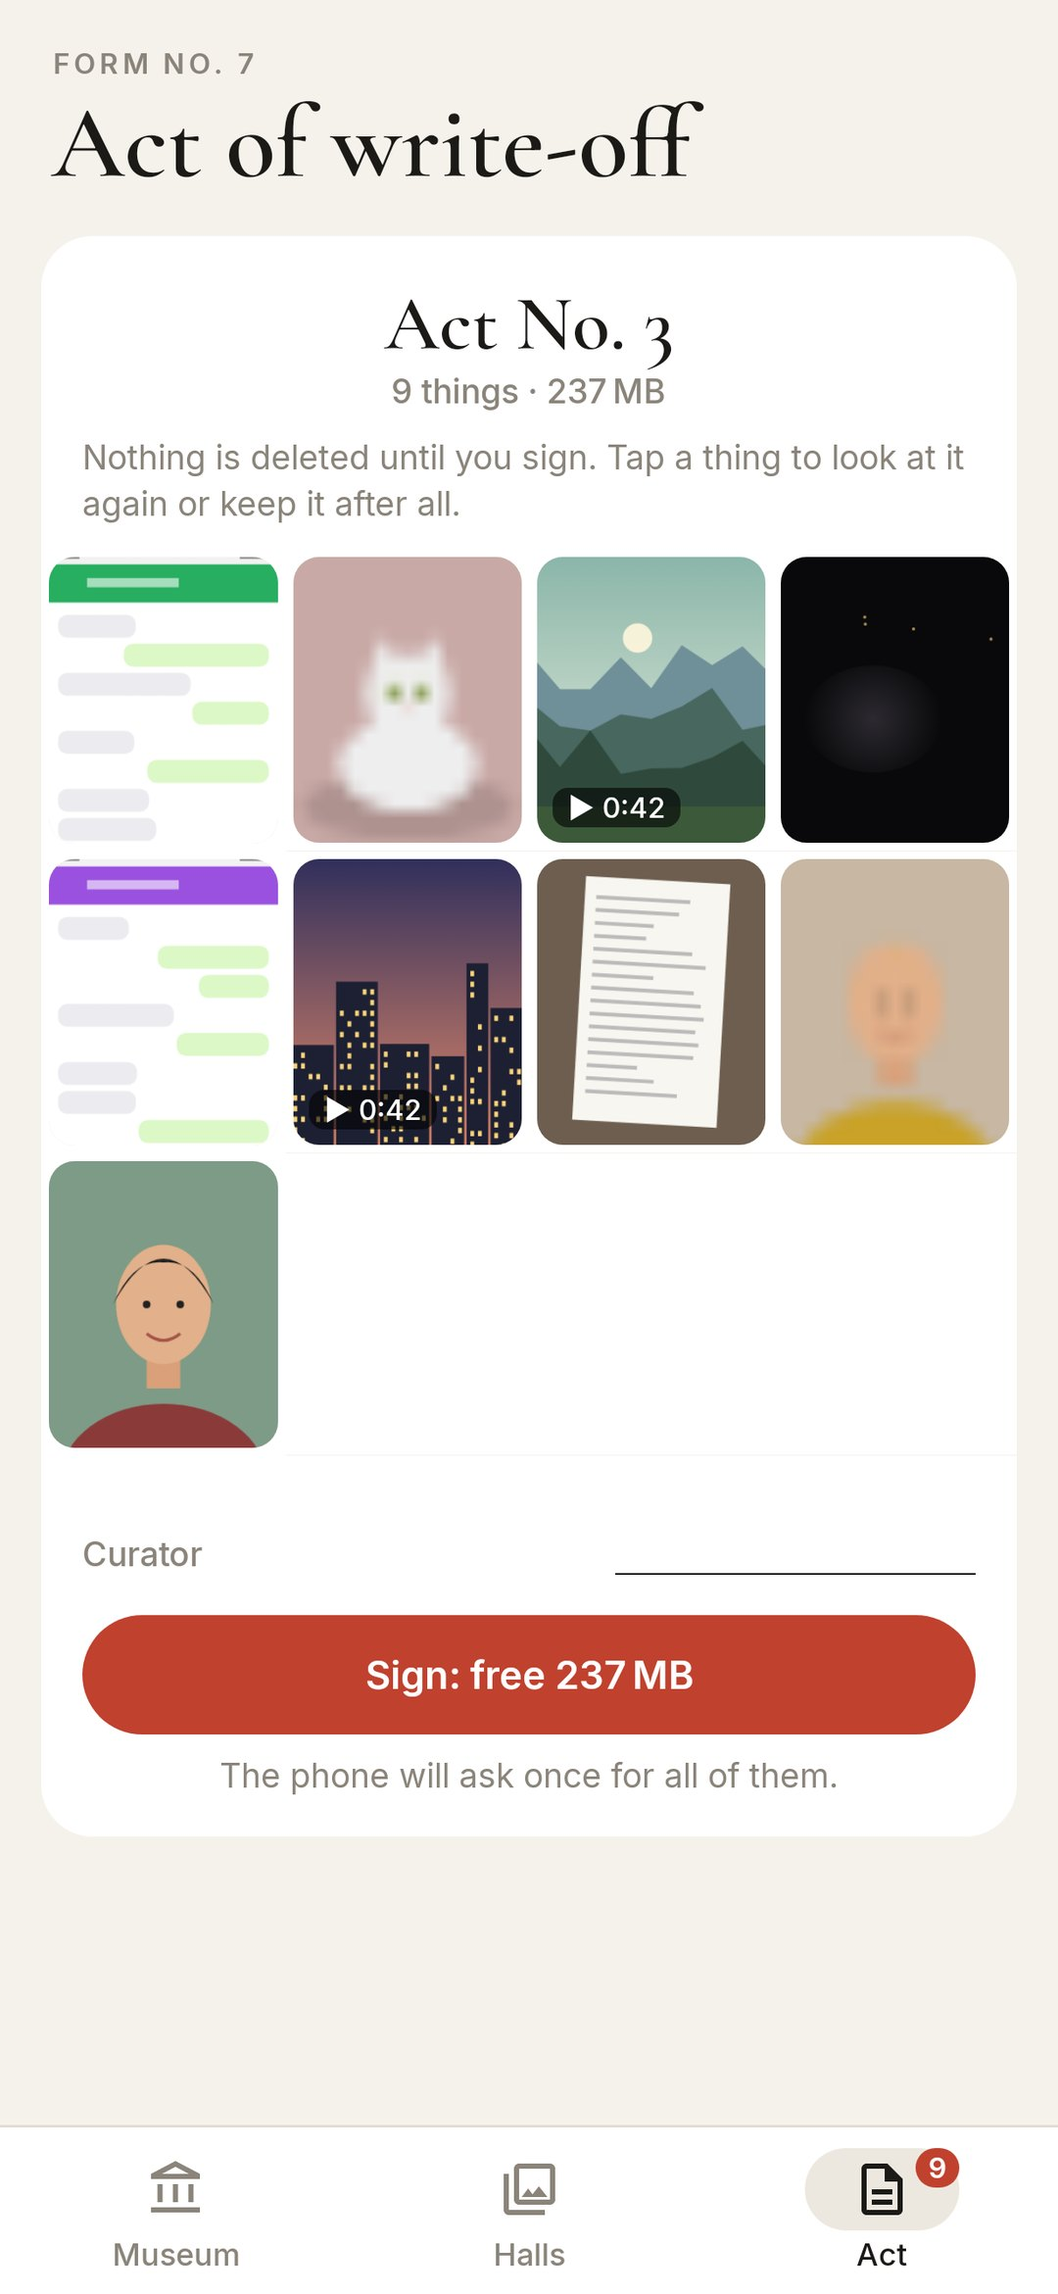
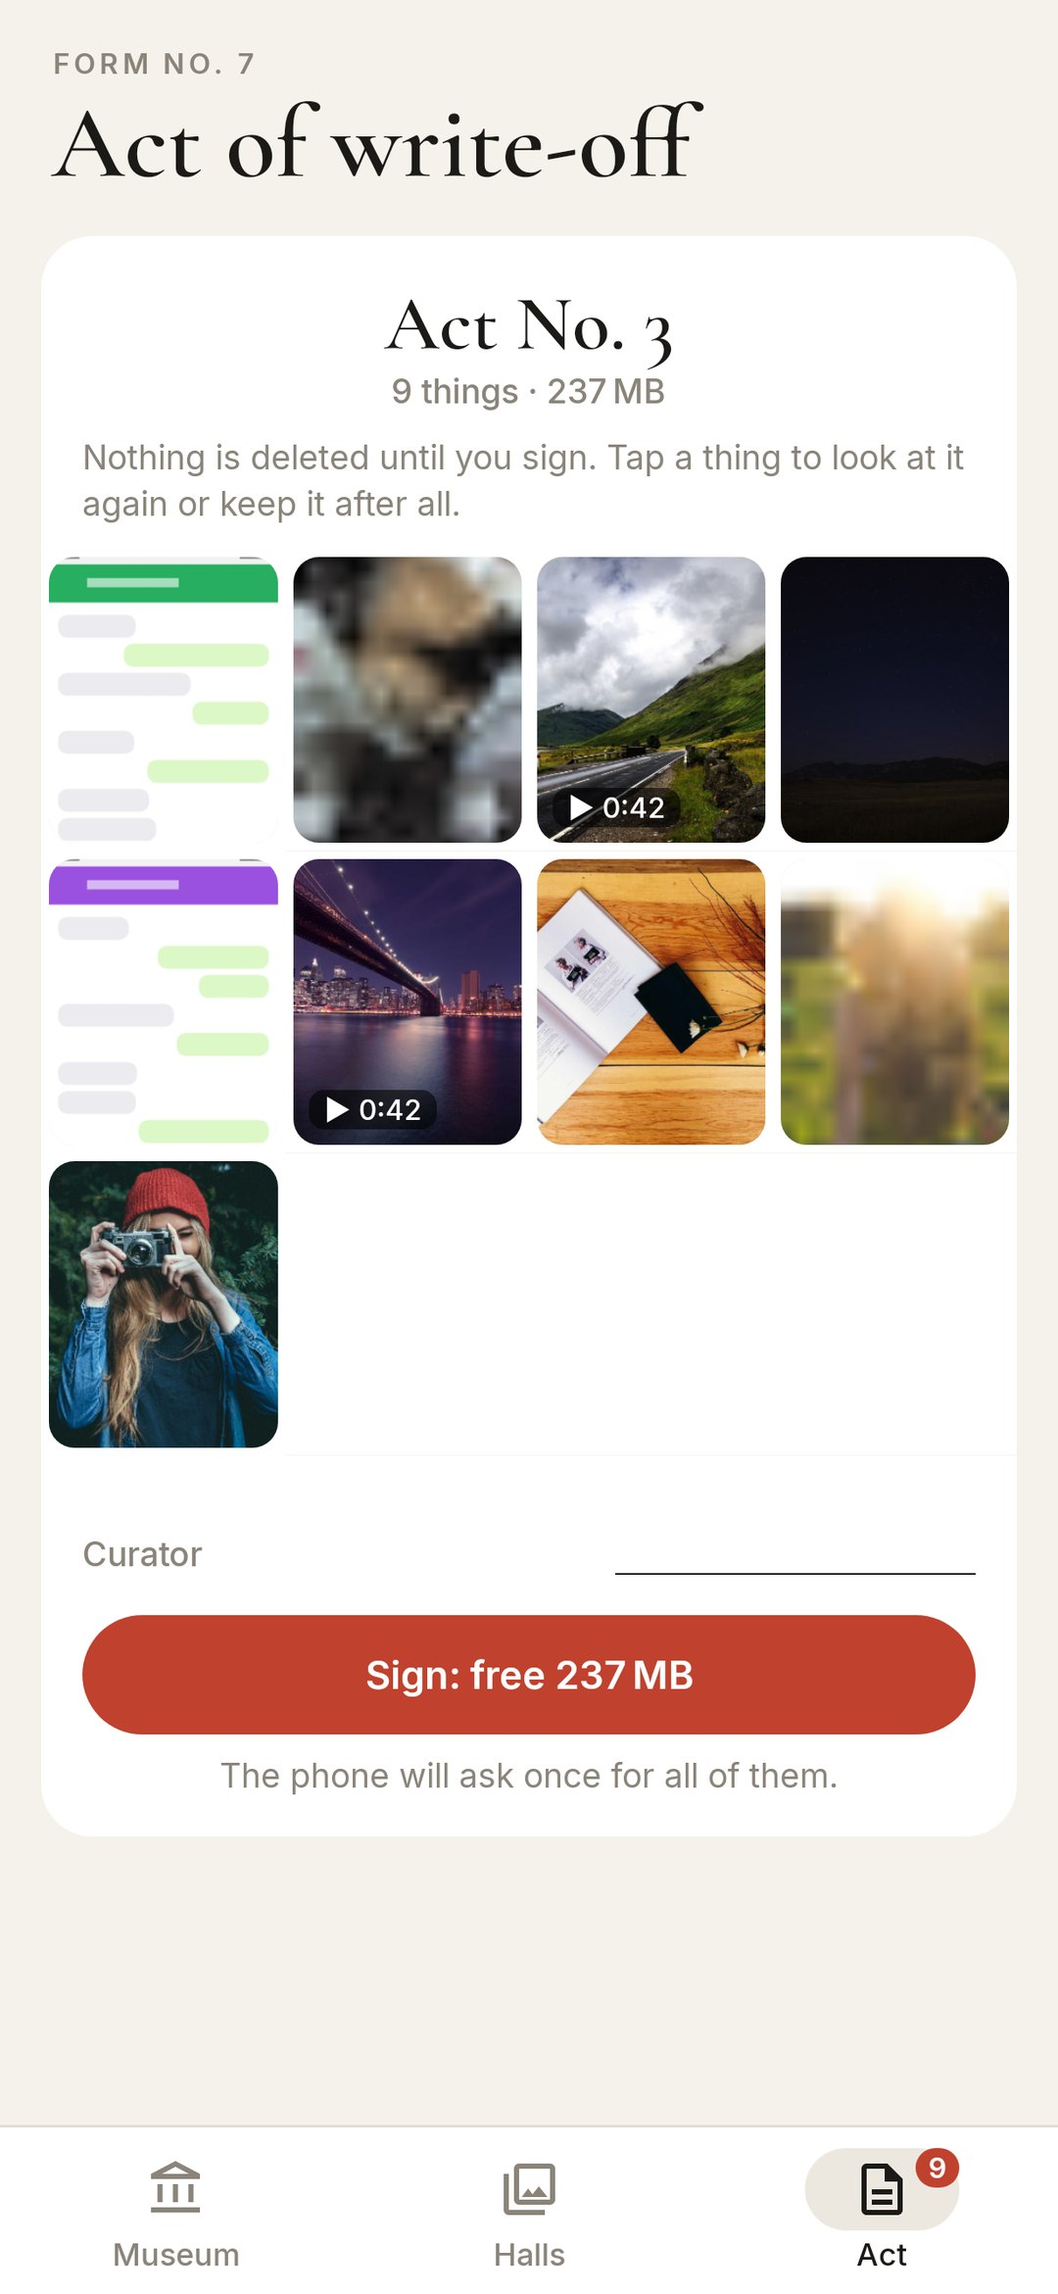
Demo gallery: real stock photos instead of drawn scenes
The demo items and the screen renders now show Unsplash photos (via
Lorem Picsum), bundled only into -Pdemo and -Prender builds. Blurred and
dark shots are real photos spoiled on the spot; a screenshot is still
drawn. The cat hall becomes "Dogs": the stock set has dogs, not cats.

Changed region(s): [[0.275, 0.2183, 0.9778, 0.4989], [0.0306, 0.4989, 0.275, 0.6548], [0.8556, 0.2806, 0.9472, 0.343]]

diff --git a/app/src/main/java/app/curator/art/Fake.kt b/app/src/main/java/app/curator/art/Fake.kt
@@ -1,19 +1,19 @@
 package app.curator.art
 
+import android.content.res.AssetManager
 import android.graphics.Bitmap
+import android.graphics.BitmapFactory
 import android.graphics.Canvas
-import android.graphics.LinearGradient
 import android.graphics.Paint
-import android.graphics.Path
-import android.graphics.RadialGradient
+import android.graphics.Rect
 import android.graphics.RectF
-import android.graphics.Shader
 import app.curator.data.Item
 import kotlin.random.Random
 
 /**
- * The demo gallery: little made-up photographs drawn from a seed (landscapes, the sea, a city at dusk, a cat,
- * a plate, a portrait, a screenshot, a receipt, a dark pocket shot, a blurred one). No real photo is ever read for it.
+ * The demo gallery: stock photos bundled only into demo and render builds (app/src/demo/assets/demo/<kind>/), picked
+ * by the item's seed. Blurred and dark shots are real photos spoiled on the spot; a screenshot is drawn. No photo
+ * from the phone is ever read for it.
  */
 object Fake {
     private const val W = 300f
@@ -21,8 +21,9 @@ object Fake {
     private val cache = object : android.util.LruCache<String, Bitmap>(24 shl 20) {
         override fun sizeOf(key: String, value: Bitmap) = value.byteCount
     }
+    private val lists = HashMap<String, List<String>>()
 
-    fun draw(it: Item, px: Int): Bitmap {
+    fun draw(it: Item, px: Int, assets: AssetManager): Bitmap {
         val key = "${it.seed}:${it.art}:${it.w}:$px"
         cache.get(key)?.let { b -> return b }
         val wide = it.w > it.h
@@ -34,12 +35,16 @@ object Fake {
         val sh = if (blur) (bh / 14).coerceAtLeast(8) else bh
         val b = Bitmap.createBitmap(sw, sh, Bitmap.Config.ARGB_8888)
         val c = Canvas(b)
-        c.scale(sw / W, sh / H)
-        val r = Random(it.seed)
-        val kind = if (blur) listOf("land", "face", "city", "cat")[r.nextInt(4)] else it.art
+        val r = Random(if (blur) it.seed else baseSeed(it.seed))
+        val kind = if (blur) listOf("land", "face", "city", "dog")[r.nextInt(4)] else it.art
         // The jitter makes a series: the same scene, a hand's width to the side.
-        val j = if (it.seed >= 1_000_000) (it.seed % 10).toFloat() else 0f
-        scene(c, kind, Random(if (blur) it.seed else baseSeed(it.seed)), j * 7f)
+        val j = if (it.seed >= 1_000_000) it.seed % 10 else 0
+        if (kind == "shot") {
+            c.scale(sw / W, sh / H)
+            screenshot(c, r)
+        } else if (!photo(c, assets, kind, r, j)) {
+            c.drawColor(0xFF8A8A8A.toInt())
+        }
         val out = if (blur) Bitmap.createScaledBitmap(b, bw, bh, true) else b
         cache.put(key, out)
         return out
@@ -48,133 +53,49 @@ object Fake {
     /** Series share a base seed (the seed with its last decimal digit dropped), so their scenes match. */
     private fun baseSeed(seed: Int) = if (seed >= 1_000_000) seed / 10 else seed
 
-    private fun p(color: Long, alpha: Int = 255) = Paint(Paint.ANTI_ALIAS_FLAG).apply { this.color = color.toInt(); this.alpha = alpha }
-
-    private fun <T> Random.pick(xs: List<T>) = xs[nextInt(xs.size)]
-
-    private fun sky(c: Canvas, top: Long, bottom: Long, h: Float = H) {
-        val paint = Paint().apply { shader = LinearGradient(0f, 0f, 0f, h, top.toInt(), bottom.toInt(), Shader.TileMode.CLAMP) }
-        c.drawRect(0f, 0f, W, H, paint)
+    /** A stock photo of [kind] cropped to fill [c]; a series frame [j] is zoomed in a little and moved along. */
+    private fun photo(c: Canvas, assets: AssetManager, kind: String, r: Random, j: Int): Boolean {
+        val files = synchronized(lists) {
+            lists.getOrPut(kind) { runCatching { assets.list("demo/$kind")?.sorted() }.getOrNull().orEmpty() }
+        }
+        if (files.isEmpty()) return false
+        val path = "demo/$kind/${files[r.nextInt(files.size)]}"
+        val src = runCatching {
+            val o = BitmapFactory.Options().apply { inJustDecodeBounds = true }
+            assets.open(path).use { BitmapFactory.decodeStream(it, null, o) }
+            var k = 1
+            while (o.outWidth / (k * 2) >= c.width) k *= 2
+            assets.open(path).use { BitmapFactory.decodeStream(it, null, BitmapFactory.Options().apply { inSampleSize = k }) }
+        }.getOrNull() ?: return false
+        val aim = c.width.toFloat() / c.height
+        var cw = src.width.toFloat()
+        var ch = cw / aim
+        if (ch > src.height) { ch = src.height.toFloat(); cw = ch * aim }
+        if (j > 0) { cw *= .9f; ch *= .9f }
+        val x = ((src.width - cw) / 2 + (j - 1.5f) * cw * .025f).coerceIn(0f, src.width - cw)
+        val y = (src.height - ch) / 2
+        c.drawBitmap(src, Rect(x.toInt(), y.toInt(), (x + cw).toInt(), (y + ch).toInt()),
+            RectF(0f, 0f, c.width.toFloat(), c.height.toFloat()), Paint(Paint.FILTER_BITMAP_FLAG))
+        return true
     }
 
-    private fun scene(c: Canvas, kind: String, r: Random, dx: Float) {
-        when (kind) {
-            "land" -> {
-                val sk = r.pick(listOf(0xFFF4A261 to 0xFFFDE2B8, 0xFF6FA8DC to 0xFFD9ECF7, 0xFFB48EAD to 0xFFF6D5C0, 0xFF88B4A8 to 0xFFEEF3E2))
-                sky(c, sk.first, sk.second)
-                c.drawCircle(70 + r.nextFloat() * 160 + dx, 90 + r.nextFloat() * 60, 18 + r.nextFloat() * 14, p(0xFFFFF6DD, 230))
-                val cols = listOf(0xFF6F8F99, 0xFF47675F, 0xFF2F4A3C)
-                for (k in 0 until 3) {
-                    val base = 190f + k * 55
-                    val path = Path().apply {
-                        moveTo(-10f, H)
-                        var x = -10f
-                        while (x <= 320f) { lineTo(x + dx, base - r.nextFloat() * 70); x += 40f }
-                        lineTo(320f, H); close()
-                    }
-                    c.drawPath(path, p(cols[k]))
-                }
-                c.drawRect(0f, 340f, W, H, p(0xFF3C5A3A))
-            }
-            "sea" -> {
-                sky(c, r.pick(listOf(0xFF9EC5E8, 0xFFF7B267, 0xFFC8B6E2)), 0xFFFBEEDD, 230f)
-                val sx = 90 + r.nextFloat() * 120 + dx
-                c.drawCircle(sx, 170f, 26f, p(0xFFFFF4D6))
-                c.drawRect(0f, 230f, W, H, Paint().apply { shader = LinearGradient(0f, 230f, 0f, H, 0xFF3D7EA6.toInt(), 0xFF173B57.toInt(), Shader.TileMode.CLAMP) })
-                for (k in 0 until 7) c.drawRect(sx - 30 + r.nextFloat() * 40, 240f + k * 16, sx - 30 + r.nextFloat() * 40 + 20 + r.nextFloat() * 30, 243f + k * 16, p(0xFFFFF4D6, 150))
-                val bx = 60 + r.nextFloat() * 160 + dx
-                c.drawPath(Path().apply { moveTo(bx, 228f); lineTo(bx + 20, 180f); lineTo(bx + 22, 228f); close() }, p(0xFFFFFFFF))
-                c.drawRect(bx - 8, 227f, bx + 30, 233f, p(0xFF222222))
-            }
-            "city" -> {
-                sky(c, 0xFF2B2D5C, r.pick(listOf(0xFFE48A6A, 0xFFD9737C, 0xFFF0A35E)))
-                var x = -5f + dx
-                val win = p(0xFFF7D37A)
-                while (x < W) {
-                    val w = 28 + r.nextFloat() * 42
-                    val h = 120 + r.nextFloat() * 190
-                    c.drawRect(x, H - h, x + w, H, p(0xFF1D1F33))
-                    var wy = H + 10 - h
-                    while (wy < 390) {
-                        var wx = x + 5
-                        while (wx < x + w - 6) { if (r.nextFloat() < .35f) c.drawRect(wx, wy, wx + 5, wy + 7, win); wx += 10 }
-                        wy += 14
-                    }
-                    x += w + 3
-                }
-            }
-            "cat" -> {
-                c.drawColor(r.pick(listOf(0xFFD9C3A5, 0xFFA7B8C9, 0xFFC9A9A6)).toInt())
-                val col = p(r.pick(listOf(0xFFE09A4F, 0xFF666666, 0xFFEEEEEE, 0xFF2B2B2B)))
-                val cx = 150 + dx
-                c.drawOval(RectF(10f, 296f, 290f, 384f), p(0xFF000000, 34))
-                c.drawOval(RectF(cx - 92, 223f, cx + 92, 347f), col)
-                c.drawCircle(cx, 195f, 56f, col)
-                c.drawPath(Path().apply { moveTo(cx - 50, 170f); lineTo(cx - 38, 118f); lineTo(cx - 12, 150f); close() }, col)
-                c.drawPath(Path().apply { moveTo(cx + 50, 170f); lineTo(cx + 38, 118f); lineTo(cx + 12, 150f); close() }, col)
-                for (s in listOf(-20f, 20f)) {
-                    c.drawOval(RectF(cx + s - 9, 179f, cx + s + 9, 201f), p(0xFFA7C94A))
-                    c.drawOval(RectF(cx + s - 3, 181f, cx + s + 3, 199f), p(0xFF111111))
-                }
-                c.drawPath(Path().apply { moveTo(cx - 6, 212f); lineTo(cx + 6, 212f); lineTo(cx, 219f); close() }, p(0xFFDD7777))
-            }
-            "food" -> {
-                c.drawColor(0xFF8B5A3C.toInt())
-                for (k in 0 until 6) c.drawRect(0f, k * 70f, W, k * 70f + 2, p(0xFF6D432B))
-                c.drawCircle(150 + dx, 210f, 112f, p(0xFFE9E4D8))
-                c.drawCircle(150 + dx, 210f, 84f, p(0xFFFBFAF6))
-                for (k in 0 until 6) c.drawCircle(120 + r.nextFloat() * 60 + dx, 180 + r.nextFloat() * 60, 14 + r.nextFloat() * 20,
-                    p(r.pick(listOf(0xFFD9534F, 0xFFF0AD4E, 0xFF5CB85C, 0xFFE8C07D, 0xFFA0522D))))
-                c.drawCircle(262f, 56f, 34f, p(0xFFF4F1EA))
-                c.drawCircle(262f, 56f, 24f, p(0xFF5A3825))
-            }
-            "face" -> {
-                c.drawColor(r.pick(listOf(0xFF9FB7C9, 0xFFC7B7A3, 0xFF7D9B86, 0xFFE0C9A6)).toInt())
-                val cx = 150 + dx
-                c.drawOval(RectF(cx - 135, 330f, cx + 135, 530f), p(r.pick(listOf(0xFF36454F, 0xFF8B3A3A, 0xFF2E5E4E, 0xFFC9A227))))
-                c.drawRect(cx - 22, 250f, cx + 22, 310f, p(0xFFD9A07A))
-                c.drawOval(RectF(cx - 62, 122f, cx + 62, 278f), p(r.pick(listOf(0xFFF1C7A5, 0xFFE2B08A, 0xFFC48B62))))
-                c.drawPath(Path().apply {
-                    moveTo(cx - 66, 200f); quadTo(cx, 80f, cx + 66, 200f); quadTo(cx + 40, 140f, cx, 145f); quadTo(cx - 40, 140f, cx - 66, 200f); close()
-                }, p(r.pick(listOf(0xFF3B2A20, 0xFF8A5A2B, 0xFFD8B26E, 0xFF222222))))
-                c.drawCircle(cx - 22, 200f, 5f, p(0xFF222222))
-                c.drawCircle(cx + 22, 200f, 5f, p(0xFF222222))
-                c.drawPath(Path().apply { moveTo(cx - 22, 238f); quadTo(cx, 256f, cx + 22, 238f) },
-                    p(0xFFA4554A).apply { style = Paint.Style.STROKE; strokeWidth = 4f })
-            }
-            "shot" -> {
-                c.drawColor(0xFFFFFFFF.toInt())
-                c.drawRect(0f, 0f, W, 22f, p(0xFFF2F2F2))
-                c.drawRect(10f, 7f, 40f, 15f, p(0xFF999999))
-                c.drawRect(250f, 7f, 290f, 15f, p(0xFF999999))
-                c.drawRect(0f, 22f, W, 72f, p(r.pick(listOf(0xFF2F80ED, 0xFF27AE60, 0xFF9B51E0))))
-                c.drawRect(50f, 40f, 170f, 52f, p(0xFFFFFFFF, 150))
-                var y = 88f
-                repeat(8) {
-                    val w = 90 + r.nextFloat() * 130
-                    val me = r.nextBoolean()
-                    val x = if (me) W - w - 12 else 12f
-                    c.drawRoundRect(RectF(x, y, x + w, y + 30), 12f, 12f, p(if (me) 0xFFDCF8C6 else 0xFFECECF0))
-                    y += 38
-                }
-            }
-            "doc" -> {
-                c.drawColor(0xFF6D5E50.toInt())
-                c.save()
-                c.rotate(-6 + r.nextFloat() * 12, 150f, 200f)
-                c.drawRect(55f, 40f, 245f, 360f, p(0xFFF8F6F0))
-                for (k in 0 until 16) c.drawRect(70f, 64f + k * 17, 70 + 60 + r.nextFloat() * 100, 69f + k * 17, p(0xFFBBBBBB))
-                c.restore()
-            }
-            else -> {
-                c.drawColor(0xFF09090B.toInt())
-                val x = 100 + r.nextFloat() * 100
-                val y = 150 + r.nextFloat() * 100
-                c.drawOval(RectF(x - 90, y - 70, x + 90, y + 70), Paint().apply {
-                    shader = RadialGradient(x, y, 90f, 0xFF2C2A30.toInt(), 0xFF09090B.toInt(), Shader.TileMode.CLAMP)
-                })
-                repeat(4) { c.drawCircle(r.nextFloat() * W, r.nextFloat() * H, 2f, p(0xFFF6D27A, 180)) }
-            }
+    private fun p(color: Long) = Paint(Paint.ANTI_ALIAS_FLAG).apply { this.color = color.toInt() }
+
+    /** A chat screenshot: status bar, a coloured app bar and speech bubbles. */
+    private fun screenshot(c: Canvas, r: Random) {
+        c.drawColor(0xFFFFFFFF.toInt())
+        c.drawRect(0f, 0f, W, 22f, p(0xFFF2F2F2))
+        c.drawRect(10f, 7f, 40f, 15f, p(0xFF999999))
+        c.drawRect(250f, 7f, 290f, 15f, p(0xFF999999))
+        c.drawRect(0f, 22f, W, 72f, p(listOf(0xFF2F80ED, 0xFF27AE60, 0xFF9B51E0)[r.nextInt(3)]))
+        c.drawRect(50f, 40f, 170f, 52f, p(0x96FFFFFF))
+        var y = 88f
+        repeat(8) {
+            val w = 90 + r.nextFloat() * 130
+            val me = r.nextBoolean()
+            val x = if (me) W - w - 12 else 12f
+            c.drawRoundRect(RectF(x, y, x + w, y + 30), 12f, 12f, p(if (me) 0xFFDCF8C6 else 0xFFECECF0))
+            y += 38
         }
     }
 }

diff --git a/app/src/main/java/app/curator/data/DemoSeed.kt b/app/src/main/java/app/curator/data/DemoSeed.kt
@@ -11,7 +11,7 @@ import java.time.ZoneId
 import kotlin.random.Random
 
 /**
- * `-Pdemo`: a museum a few months old over a made-up gallery drawn in code. Last month's crate is still sealed and
+ * `-Pdemo`: a museum a few months old over a made-up gallery of stock photos. Last month's crate is still sealed and
  * has a bit of everything in it: rejects for the expert, a series, a video, a duplicate. The act waiting for a
  * signature is just enough to open the Rotunda.
  */
@@ -48,8 +48,8 @@ object DemoSeed {
         val m1 = today.minusMonths(1).withDayOfMonth(1)
         var t = m1.atTime(9, 12).atZone(zone).toInstant().toEpochMilli()
         fun step() { t += (40 + r.nextInt(400)) * 60_000L }
-        val plan = listOf("land", "sea", "shot", "face", "cat", "SERIES", "blur", "food", "VIDEO", "city", "dark", "sea", "DUP", "cat",
-            "shot", "doc", "land", "face", "food", "city", "blur", "sea", "cat", "land", "face", "sea", "food", "land", "city", "cat")
+        val plan = listOf("land", "sea", "shot", "face", "dog", "SERIES", "blur", "food", "VIDEO", "city", "dark", "sea", "DUP", "dog",
+            "shot", "doc", "land", "face", "food", "city", "blur", "sea", "dog", "land", "face", "sea", "food", "land", "city", "dog")
         for (k in plan) {
             when (k) {
                 "SERIES" -> {
@@ -67,14 +67,14 @@ object DemoSeed {
             }
             step()
         }
-        for (k in 0 until 34) { out += item(t, listOf("land", "sea", "face", "cat", "food", "city")[r.nextInt(6)], chat = r.nextInt(6) == 0); step() }
+        for (k in 0 until 34) { out += item(t, listOf("land", "sea", "face", "dog", "food", "city")[r.nextInt(6)], chat = r.nextInt(6) == 0); step() }
 
         // Older months, partly described.
-        val halls = listOf(if (ru) "Семья" else "Family", if (ru) "Путешествия" else "Travels", if (ru) "Кот Бублик" else "Biscuit the cat",
+        val halls = listOf(if (ru) "Семья" else "Family", if (ru) "Путешествия" else "Travels", if (ru) "Собаки" else "Dogs",
             if (ru) "Застолья" else "Feasts", if (ru) "Город" else "The city")
         val founded = now - 92L * 86_400_000
         val hallIds = halls.mapIndexed { i, n -> c.museum.addHall(Hall(name = n, created = founded + i * 3_600_000L)) }
-        val hallOf = mapOf("face" to 0, "sea" to 1, "land" to 1, "cat" to 2, "food" to 3, "city" to 4)
+        val hallOf = mapOf("face" to 0, "sea" to 1, "land" to 1, "dog" to 2, "food" to 3, "city" to 4)
         val older = listOf(0 to (40 to .35f), 2 to (52 to 1f), 3 to (120 to .05f), 7 to (64 to 0f), 19 to (88 to .6f), 31 to (40 to 1f), 55 to (70 to .3f))
         val decidedSoFar = ArrayList<Item>()
         for ((ago, spec) in older) {
@@ -90,7 +90,7 @@ object DemoSeed {
                     roll < 8 -> item(at, "shot", size = 500_000L)
                     roll < 12 -> item(at, "blur", sharp = 3f)
                     roll < 15 -> item(at, "land", size = (30 + r.nextLong(90)) * MB, video = true)
-                    else -> item(at, listOf("land", "sea", "face", "cat", "food", "city", "doc")[r.nextInt(7)], chat = r.nextInt(7) == 0)
+                    else -> item(at, listOf("land", "sea", "face", "dog", "food", "city", "doc")[r.nextInt(7)], chat = r.nextInt(7) == 0)
                 }
             }
             val k = (n * done).toInt()
@@ -109,7 +109,7 @@ object DemoSeed {
 
         // This week's exhibits, for the exhibition.
         val week = Dates.week(now)
-        decidedSoFar.filter { it.art in setOf("sea", "face", "cat", "land") }.shuffled(r).take(3).forEachIndexed { i, x ->
+        decidedSoFar.filter { it.art in setOf("sea", "face", "dog", "land") }.shuffled(r).take(3).forEachIndexed { i, x ->
             val j = out.indexOfFirst { it.id == x.id }
             out[j] = x.copy(verdict = Verdict.EXHIBIT, decided = now - (i + 1) * 5_400_000L)
         }

diff --git a/app/src/main/java/app/curator/CuratorApp.kt b/app/src/main/java/app/curator/CuratorApp.kt
@@ -103,7 +103,7 @@ class AppContainer(context: Context) {
     /** A picture of the thing [px] wide at most: from the gallery, or drawn for a demo item. */
     fun picture(it: Item, px: Int): Bitmap? = when {
         it.art.startsWith("asset:") -> asset(it.art.removePrefix("asset:"), px)
-        it.fake -> Fake.draw(it, px)
+        it.fake -> Fake.draw(it, px, app.assets)
         else -> Media.thumb(app, it, px)
     }
 

diff --git a/README.ru.md b/README.ru.md
@@ -47,3 +47,5 @@
 Часть [StillCraft](https://bigdevwhale.github.io/stillcraft/). Лицензия MIT.
 
 Фото в учебном ящике — с [Unsplash](https://unsplash.com/license): Steven Lewis, Roberto Nickson, Matthew Wiebe, Jeff Sheldon, Alexey Topolyanskiy, E+N Photographies.
+
+Фото демо-галереи и скриншотов — тоже с [Unsplash](https://unsplash.com/license), через [Lorem Picsum](https://picsum.photos); авторы перечислены в [CREDITS.txt](app/src/demo/assets/demo/CREDITS.txt). Они попадают только в демо-сборки, в релизный APK — нет.

diff --git a/README.md b/README.md
@@ -61,3 +61,5 @@ Kotlin, Jetpack Compose, Room, DataStore, WorkManager. Fonts: Cormorant Garamond
 Part of [StillCraft](https://bigdevwhale.github.io/stillcraft/). MIT licence.
 
 Photos in the training crate are from [Unsplash](https://unsplash.com/license): Steven Lewis, Roberto Nickson, Matthew Wiebe, Jeff Sheldon, Alexey Topolyanskiy, E+N Photographies.
+
+Photos in the demo gallery and the screenshots are from [Unsplash](https://unsplash.com/license) too, via [Lorem Picsum](https://picsum.photos); the authors are listed in [CREDITS.txt](app/src/demo/assets/demo/CREDITS.txt). They go only into demo builds, never into the release APK.
